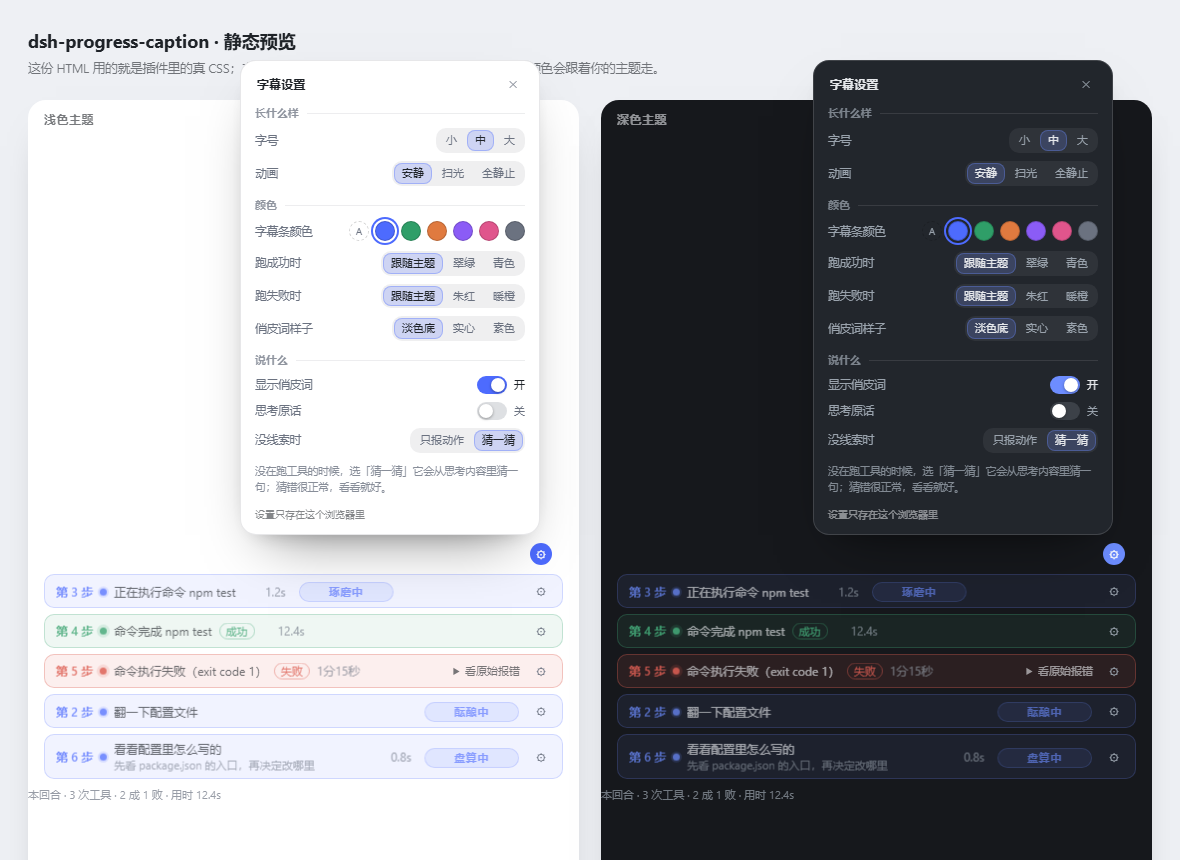
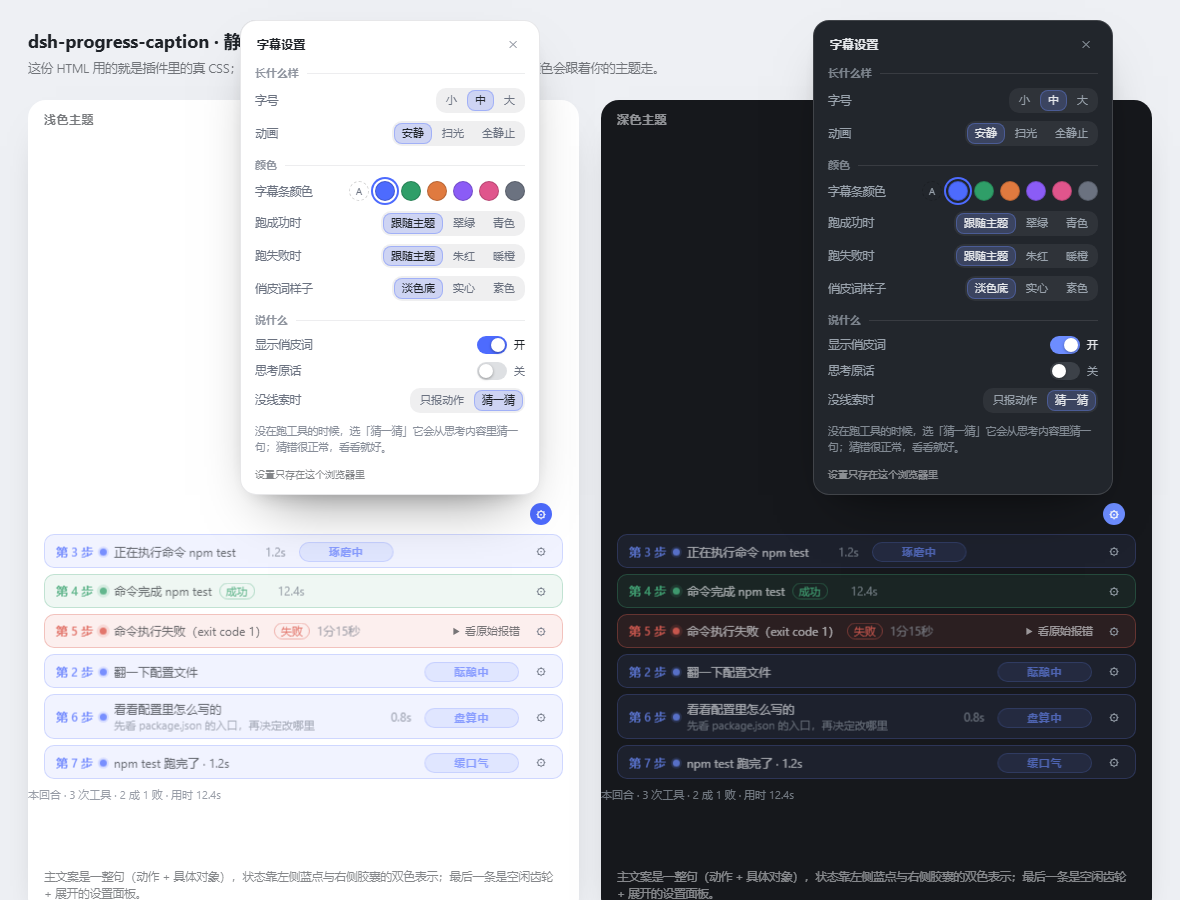
fix: 两步之间的空档不再说「正在准备下一步」，改报刚跑完的工具与耗时

diff --git a/client.js b/client.js
@@ -244,7 +244,7 @@ window.__ModuleLoader__.load({
       subagent: 'delegate', subagent_fork: 'delegate',
     };
 
-    /** 动词组 → 阶段（判断「看完了 N 个文件，在想下一步」这类话术）。 */
+    /** 动词组 → 阶段（判断「看完了 N 个文件」这类话术）。 */
     const GROUP_PHASES = {
       read: 'read', find: 'read', exec: 'exec', write: 'edit', edit: 'edit',
       web: 'web', delegate: 'delegate',
@@ -255,7 +255,6 @@ window.__ModuleLoader__.load({
         step: '第 {n} 步',
         thinking: '正在思考',
         writing: '正在组织回答',
-        waiting: '正在准备下一步',
         stateRunning: '进行中',
         stateOk: '成功',
         stateFail: '失败',
@@ -328,19 +327,31 @@ window.__ModuleLoader__.load({
         v_delegate_done: '小助手回来了',
         v_other_run: '正在执行',
         v_other_done: '完成了',
-        /* 阶段话术：工具间隙的思考，按「本回合刚干完什么」说人话 */
-        phase_read: '看完了 {n} 个文件，在想下一步',
-        phase_edit: '刚改完{target}，在想下一步',
-        phase_exec: '命令跑完了，在想下一步',
-        phase_web: '查完资料，在想下一步',
-        phase_delegate: '小助手回来了，在想下一步',
-        phase_other: '做完了 {n} 步，在想下一步',
+        /* 阶段话术：工具间隙的思考，按「本回合刚干完什么」说人话。
+           只说已经发生的事实，不写「在想下一步」这种放之四海皆准的尾巴。 */
+        phase_read: '看完了 {n} 个文件',
+        phase_edit: '刚改完{target}',
+        phase_exec: '命令跑完了',
+        phase_web: '查完资料',
+        phase_delegate: '小助手回来了',
+        phase_other: '这一轮跑了 {n} 步',
+        /* 两步之间的空档（工具刚回来、模型还没开口）：报「刚才那件事 + 花了多久」，
+           没有可报的事实就不写主文案，交给俏皮词。 */
+        waitFormat: '{what} · {time}',
+        waitFormatBare: '{what}',
+        w_exec: '跑完了',
+        w_read: '读完了',
+        w_find: '搜完了',
+        w_write: '写好了',
+        w_edit: '改好了',
+        w_web: '查完了',
+        w_delegate: '回来了',
+        w_other: '跑完了',
       },
       en: {
         step: 'Step {n}',
         thinking: 'thinking',
         writing: 'writing the answer',
-        waiting: 'getting ready for the next step',
         stateRunning: 'running',
         stateOk: 'done',
         stateFail: 'failed',
@@ -412,12 +423,22 @@ window.__ModuleLoader__.load({
         v_delegate_done: 'subagent returned',
         v_other_run: 'running',
         v_other_done: 'done with',
-        phase_read: 'read {n} files, thinking next',
-        phase_edit: 'just edited{target}, thinking next',
-        phase_exec: 'command finished, thinking next',
-        phase_web: 'web search done, thinking next',
-        phase_delegate: 'subagent returned, thinking next',
-        phase_other: 'did {n} steps, thinking next',
+        phase_read: 'read {n} files',
+        phase_edit: 'just edited{target}',
+        phase_exec: 'command finished',
+        phase_web: 'web search done',
+        phase_delegate: 'subagent came back',
+        phase_other: 'ran {n} steps this turn',
+        waitFormat: '{what} · {time}',
+        waitFormatBare: '{what}',
+        w_exec: 'command finished',
+        w_read: 'file read',
+        w_find: 'search done',
+        w_write: 'file written',
+        w_edit: 'edit done',
+        w_web: 'web search done',
+        w_delegate: 'subagent came back',
+        w_other: 'step finished',
       },
     };
 
@@ -634,7 +655,7 @@ window.__ModuleLoader__.load({
 
     /**
      * 本回合已完成的工具结果（用 seq 卡回合边界，全是事实，不猜）。
-     * 工具间隙模型又在思考时，靠它说「看完了 3 个文件，在想下一步」。
+     * 工具间隙模型又在思考时，靠它说「看完了 3 个文件」。
      */
     function turnTools(source) {
       const nodes = source && Array.isArray(source.nodes) ? source.nodes : EMPTY;
@@ -649,6 +670,30 @@ window.__ModuleLoader__.load({
         list.push(node);
       }
       return list;
+    }
+
+    /**
+     * 两步之间的空档话术：工具刚回来、模型还没开口的那一两秒。
+     * 只说「刚才那件事 + 花了多久」（都是事实），没有事实就返回 null——
+     * 这时上层的思考分支会退到俏皮词，绝不写「正在准备下一步」这种放之四海皆准的空话。
+     * @returns {null | {text: string, id: string}}
+     */
+    function gapText(tools, now) {
+      if (!tools || tools.length === 0) return null;
+      const last = tools[tools.length - 1];
+      const group = TOOL_VERB_GROUPS[last.name] || 'other';
+      const verb = translate('w_' + group);
+      const target = toolTarget(last);
+      const what = target ? target + ' ' + verb : verb;
+      const id = String(last.callId || last.seq || last.name || 'tool');
+      const ran = typeof last.callTime === 'number' && typeof last.time === 'number'
+        ? Math.max(0, last.time - last.callTime)
+        : null;
+      // 超过一秒才报时长；零点几秒报出来反而是噪音。
+      if (ran !== null && ran >= 1000) {
+        return { text: fmt(translate('waitFormat'), { what, time: durationText(ran) }), id };
+      }
+      return { text: fmt(translate('waitFormatBare'), { what }), id };
     }
 
     /**
@@ -911,15 +956,18 @@ window.__ModuleLoader__.load({
       // 也不能让字幕收起来——用户要的是「思考没结束就一直挂着」。
       if (!partial && calls.length === 0) {
         if (!source.turnOpen || turn === null) return null;
+        // 空档时只报事实：本回合刚跑完的那条工具 + 它花了多久。
+        // 没事实可报就把 phase 留空，上层会退到俏皮词——不写「正在准备下一步」这种空话。
+        const done = gapText(turnTools({ nodes, turnEnds: source.turnEnds, turn }), now);
         return {
-          key: 'wait:' + turn,
+          key: 'wait:' + turn + ':' + (done ? done.id : '-'),
           state: 'thinking',
           turn,
           step: null,
           tool: '',
           target: '',
           ruleId: null,
-          phase: source.waitingText || '',
+          phase: done ? done.text : null,
           elapsedMs: null,
           kind: null,
           code: null,
@@ -1112,7 +1160,6 @@ window.__ModuleLoader__.load({
           factsOnly: settings.factsOnly,
           turn: openTurn,
           turnOpen: openTurn !== null,
-          waitingText: t('waiting'),
         }),
         [partial, runningCalls, nodes, now, settings.factsOnly, openTurn, t],
       );
@@ -1753,6 +1800,7 @@ window.__ModuleLoader__.load({
         toolTarget,
         actionText,
         turnTools,
+        gapText,
         phaseText,
         summarizeTurn,
         readSettings,

diff --git a/README.md b/README.md
@@ -41,8 +41,9 @@ git clone https://github.com/wanted09527/dsh-progress-caption.git
 | --- | --- | --- |
 | ① 工具事实 | 正在跑/刚跑完的工具 + `argsRaw` | `正在执行命令 npm test`、`正在读 client.js`、`跑完命令 npm test` |
 | ② 规则表 | 思考文本末尾 400 字（17 条规则） | `正在理解你的需求`、`正在定位问题`、`正在对比方案`、`正在评估风险` |
-| ③ 阶段话术 | 本回合已完成工具的类型序列 | `看完了 3 个文件，在想下一步`、`刚改完 client.js，在想下一步`、`命令跑完了，在想下一步` |
-| ④ 俏皮词 | 112 个词轮换 | 前面都说不出话时，`酝酿中 / 琢磨中 / 翻箱倒柜 / 摸鱼中` 顶上 |
+| ③ 阶段话术 | 本回合已完成工具的类型序列 | `看完了 3 个文件`、`刚改完 client.js`、`命令跑完了` |
+| ④ 空档事实 | 刚跑完的那条工具 + 它花了多久 | `npm test 跑完了 · 1.2s`；这一轮还没跑过工具就交给俏皮词 |
+| ⑤ 俏皮词 | 112 个词轮换 | 前面都说不出话时，`酝酿中 / 琢磨中 / 翻箱倒柜 / 摸鱼中` 顶上 |
 
 工具动词分组（不再是「正在执行 读取文件」这种机翻腔）：
 
@@ -65,7 +66,7 @@ v4.1-flash 这类模型思考极快，字是一串串来的。如果字幕逐字
 
 | 机制 | 值 | 作用 |
 | --- | --- | --- |
-| 常驻不闪没 | — | 思考中/跑工具/写回答，字幕一直在；整轮结束才收成齿轮。两步之间 `partial` 会短暂为空，这时显示「正在准备下一步」，最长容忍 20 秒空档（`TURN_GAP_MS`），不会因此收起来 |
+| 常驻不闪没 | — | 思考中/跑工具/写回答，字幕一直在；整轮结束才收成齿轮。两步之间 `partial` 会短暂为空，这时说「刚才那件事 + 花了多久」（如 `npm test 跑完了 · 1.2s`），最长容忍 20 秒空档（`TURN_GAP_MS`），不会因此收起来；这一轮还没跑过工具就只显示俏皮词，不写「正在准备下一步」这类空话 |
 | 事实优先 | — | 有工具在跑就用工具信息（准确），思考文本只作兜底 |
 | 标签稳定窗口 | 350ms，快思考时 800ms | 候选文案要稳住这么久才真正换上去，抖动被吃掉 |
 | 最短停留 | 2600ms | 状态结束（开始写回答/工具结束）后，最后一条至少再挂 2.6 秒，想得再快也来得及读完 |
